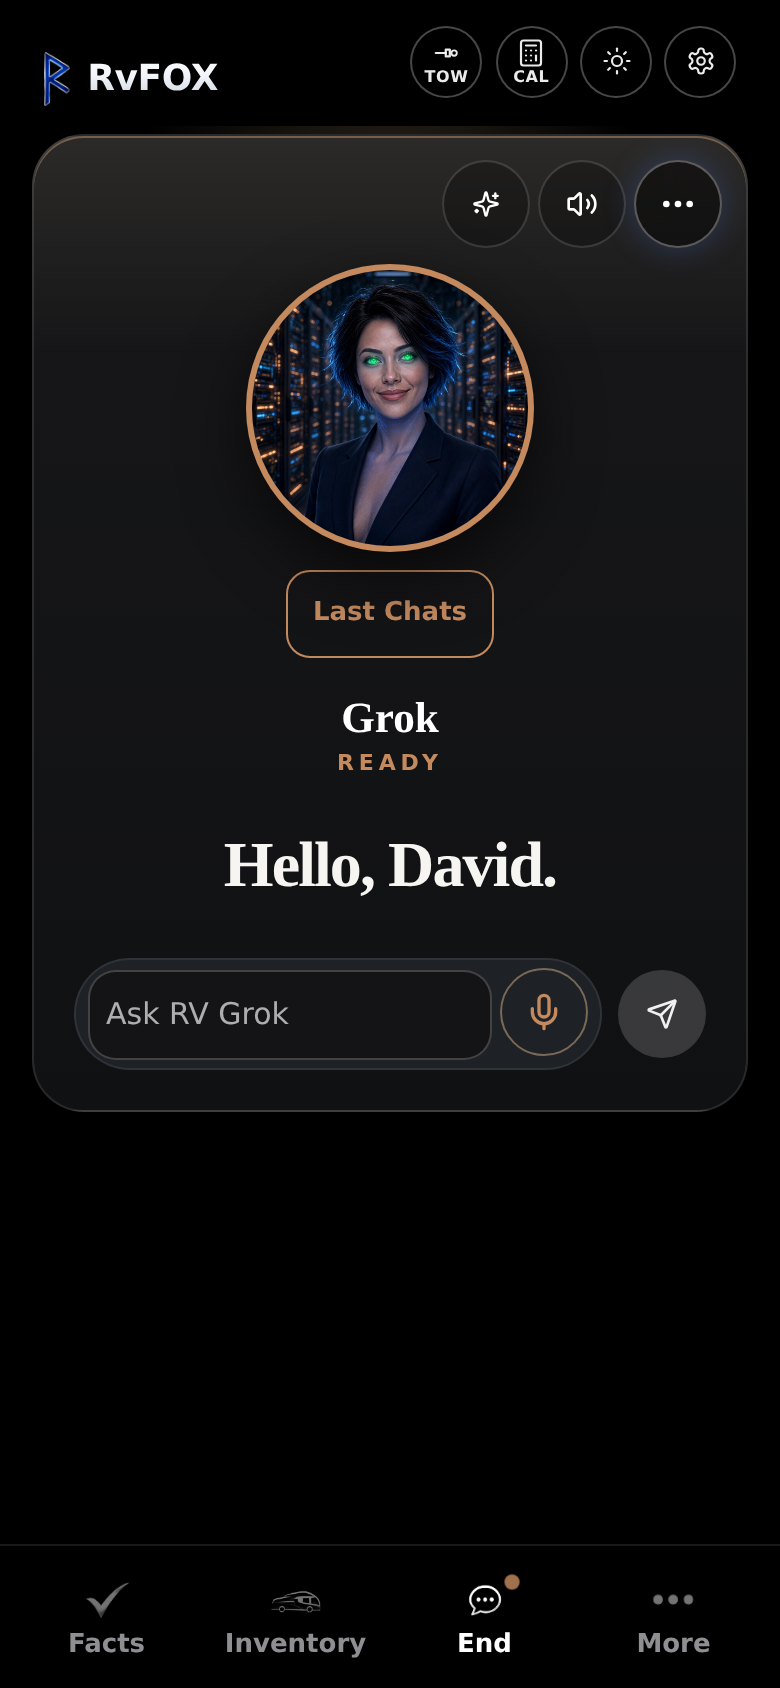
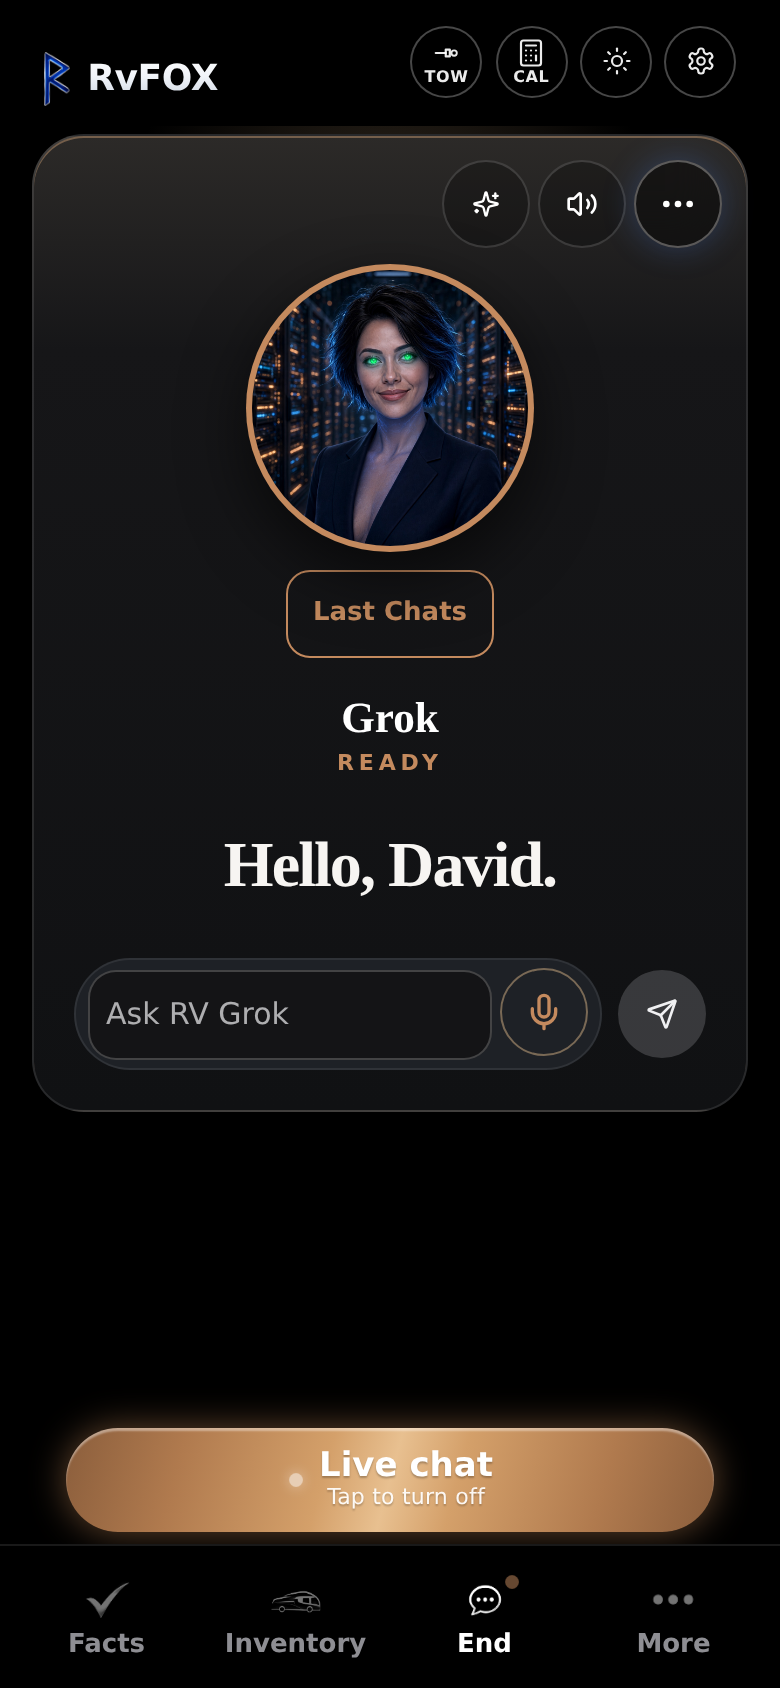
Let a second tap on the Ask pill turn Live chat off.
The pill stays up on Chat while the session is on, and that tap stops it instead of only returning to the room.

Changed region(s): [[0.0615, 0.8318, 0.9231, 0.955]]

diff --git a/src/lib/rvgrok/roomAsk.test.ts b/src/lib/rvgrok/roomAsk.test.ts
@@ -6,6 +6,7 @@ import { fileURLToPath } from "node:url";
 import {
   askPillFace,
   chatTabFace,
+  planAskPillTap,
   planGrokTabVoice,
   publishRoomVoice,
   registerRoomAsk,
@@ -212,7 +213,7 @@ test("Home's Ask RV Grok pill sits above the dock on every other screen, not Hom
   assert.match(pill, /theme === "dark" \? "dark-home-ask" : "light-home-ask"/);
   assert.match(pill, /data-ask-grok/);
   assert.match(pill, /Ask RV Grok/);
-  assert.match(bar, /const showAsk = !homeOpen && tab !== "rvgrok"/);
+  assert.match(bar, /const showAsk = !homeOpen && \(tab !== "rvgrok" \|\| live\)/);
   assert.match(bar, /<AskGrokPill onOpen=\{\(\) => onOpen\("rvgrok", \{ pageScope: true \}\)\} \/>/);
   assert.ok(bar.indexOf("<AskGrokPill") < bar.indexOf("<BottomTabs"), "pill renders above the dock");
   assert.match(css, /\.shell-ask-wrap/);
@@ -226,7 +227,9 @@ test("Home's Ask RV Grok pill sits above the dock on every other screen, not Hom
 test("Chat tab and Ask pill show Live while voice is on away from Chat", () => {
   assert.deepEqual(askPillFace(false), { label: "Ask RV Grok", aria: "Ask RV Grok" });
   assert.equal(askPillFace(true).label, "Live chat");
-  assert.match(askPillFace(true).aria, /then tap again to turn it off/);
+  assert.match(askPillFace(true).aria, /Tap to turn it off/);
+  assert.equal(planAskPillTap(false), "open");
+  assert.equal(planAskPillTap(true), "stop");
   assert.equal(chatTabFace(false, false).label, "Chat");
   assert.equal(chatTabFace(true, false).label, "Live");
   assert.match(chatTabFace(true, false).aria, /tap again to turn it off/);
@@ -242,12 +245,16 @@ test("Chat tab and Ask pill show Live while voice is on away from Chat", () => {
   }
   assert.match(pill, /askPillFace/);
   assert.match(pill, /live-chat-dot/);
-  assert.match(pill, /Tap to return/);
+  assert.match(pill, /planAskPillTap/);
+  assert.match(pill, /stopRoomVoice/);
+  assert.match(pill, /Tap to turn off/);
   assert.match(tabs, /chatTabFace/);
   assert.match(tabs, /bottom-tab-live-dot/);
   assert.match(tabs, /tab === "rvgrok" && !homeOpen/);
   assert.match(home, /askPillFace/);
   assert.match(home, /chatTabFace/);
   assert.match(home, /AskPillLiveLabel/);
+  assert.match(home, /planAskPillTap/);
+  assert.match(home, /stopRoomVoice/);
   assert.match(home, /dark-home-live-dot/);
 });

diff --git a/src/components/shell/AskGrokPill.tsx b/src/components/shell/AskGrokPill.tsx
@@ -1,18 +1,18 @@
 import { useSyncExternalStore } from "react";
-import { askPillFace } from "@/lib/rvgrok/roomAsk";
+import { askPillFace, planAskPillTap, stopRoomVoice } from "@/lib/rvgrok/roomAsk";
 import { readTheme, serverTheme, subscribeTheme } from "@/lib/theme";
 import { cn } from "@/lib/utils";
 import { useRoomVoiceOpen } from "./useRoomVoiceOpen";
 import "./home-truth.css";
 
-/** Live Voice is still on. The pill is the way back to Chat. */
+/** Live Voice is on. The next tap of this pill turns it off. */
 export function AskPillLiveLabel({ label }: { label: string }) {
   return (
     <>
       <span className="live-chat-dot" aria-hidden />
       <span className="ask-live-copy">
         <span>{label}</span>
-        <small>Tap to return</small>
+        <small>Tap to turn off</small>
       </span>
     </>
   );
@@ -22,8 +22,7 @@ export function AskPillLiveLabel({ label }: { label: string }) {
  * Home's Ask RV Grok pill, carried to every other screen right above the
  * dock. Same classes as Home: copper (dark-home-ask) in dark, graphite
  * (light-home-ask) in light. Opens the RV Grok room.
- * While Live Voice is on, the label switches to "Live chat" so the pill
- * is the obvious way back.
+ * While Live Voice is on, the label switches to "Live chat" and the tap turns it off.
  */
 export function AskGrokPill({ onOpen }: { onOpen: () => void }) {
   const theme = useSyncExternalStore(subscribeTheme, readTheme, serverTheme);
@@ -38,7 +37,13 @@ export function AskGrokPill({ onOpen }: { onOpen: () => void }) {
         data-live-chat={live ? "" : undefined}
         aria-label={face.aria}
         title={face.aria}
-        onClick={onOpen}
+        onClick={() => {
+          if (planAskPillTap(live) === "stop") {
+            stopRoomVoice();
+            return;
+          }
+          onOpen();
+        }}
       >
         {live ? <AskPillLiveLabel label={face.label} /> : face.label}
       </button>

diff --git a/src/components/shell/HomeScreen.tsx b/src/components/shell/HomeScreen.tsx
@@ -4,7 +4,7 @@ import { MetalVerifiedTrue } from "@/components/shell/Launchpad";
 import { Sun } from "lucide-react";
 import { readTheme, serverTheme, setTheme, subscribeTheme } from "@/lib/theme";
 import type { AppTab } from "@/components/shell/BottomTabs";
-import { askPillFace, chatTabFace } from "@/lib/rvgrok/roomAsk";
+import { askPillFace, chatTabFace, planAskPillTap, stopRoomVoice } from "@/lib/rvgrok/roomAsk";
 import { AskPillLiveLabel } from "@/components/shell/AskGrokPill";
 import { useRoomVoiceOpen } from "@/components/shell/useRoomVoiceOpen";
 
@@ -37,6 +37,13 @@ export function HomeScreen({
   const live = useRoomVoiceOpen();
   const ask = askPillFace(live);
   const chat = chatTabFace(live, false);
+  const onAsk = () => {
+    if (planAskPillTap(live) === "stop") {
+      stopRoomVoice();
+      return;
+    }
+    onOpen("rvgrok", { pageScope: true });
+  };
   const [units, setUnits] = useState<LotUnit[] | null>(null);
   const [saved, setSaved] = useState(false);
 
@@ -162,7 +169,7 @@ export function HomeScreen({
             data-live-chat={live ? "" : undefined}
             aria-label={ask.aria}
             title={ask.aria}
-            onClick={() => onOpen("rvgrok", { pageScope: true })}
+            onClick={onAsk}
           >
             {live ? <AskPillLiveLabel label={ask.label} /> : ask.label}
           </button>
@@ -248,7 +255,7 @@ export function HomeScreen({
           data-live-chat={live ? "" : undefined}
           aria-label={ask.aria}
           title={ask.aria}
-          onClick={() => onOpen("rvgrok", { pageScope: true })}
+          onClick={onAsk}
         >
           {live ? <AskPillLiveLabel label={ask.label} /> : ask.label}
         </button>

diff --git a/src/components/shell/RoomAskBar.tsx b/src/components/shell/RoomAskBar.tsx
@@ -2,12 +2,13 @@ import type { AppTab, DockRoomId } from "./BottomTabs";
 import { BottomTabs } from "./BottomTabs";
 import { AskGrokPill } from "./AskGrokPill";
 import { MoreSheet, type MorePick } from "./MoreSheet";
+import { useRoomVoiceOpen } from "./useRoomVoiceOpen";
 
 /**
  * The original dock (Facts · Inventory · Chat · More) with the More sheet
  * anchored above it. Home's Ask RV Grok pill sits right above the dock on
- * every other screen; Home keeps its own pill, and Chat (the RV Grok room,
- * with its own composer and live voice) shows none.
+ * every other screen. Home keeps its own pill. Chat hides this one unless
+ * Live Voice is on, so the same pill can be tapped again to turn it off.
  */
 export function RoomAskBar({
   tab,
@@ -27,7 +28,8 @@ export function RoomAskBar({
   onMorePick?: (id: MorePick) => void;
   onMoreClose?: () => void;
 }) {
-  const showAsk = !homeOpen && tab !== "rvgrok";
+  const live = useRoomVoiceOpen();
+  const showAsk = !homeOpen && (tab !== "rvgrok" || live);
   return (
     <div data-room-ask data-no-swipe className="showroom-dock">
       {showAsk ? (

diff --git a/src/lib/rvgrok/roomAsk.ts b/src/lib/rvgrok/roomAsk.ts
@@ -96,13 +96,18 @@ export function stopRoomVoice(): void {
   bridge?.stop?.();
 }
 
-/** Ask pill copy. Idle stays "Ask RV Grok". Live is the way back. */
+/** Ask pill copy. Idle stays "Ask RV Grok". Live is the off switch. */
 export function askPillFace(live: boolean): { label: string; aria: string } {
   if (!live) return { label: "Ask RV Grok", aria: "Ask RV Grok" };
   return {
     label: "Live chat",
-    aria: "Live chat is on. Tap to return to Chat, then tap again to turn it off.",
+    aria: "Live chat is on. Tap to turn it off.",
   };
+}
+
+/** The Ask pill is a toggle. The next tap while Live is on shuts it off. */
+export function planAskPillTap(live: boolean): "stop" | "open" {
+  return live ? "stop" : "open";
 }
 
 /**
